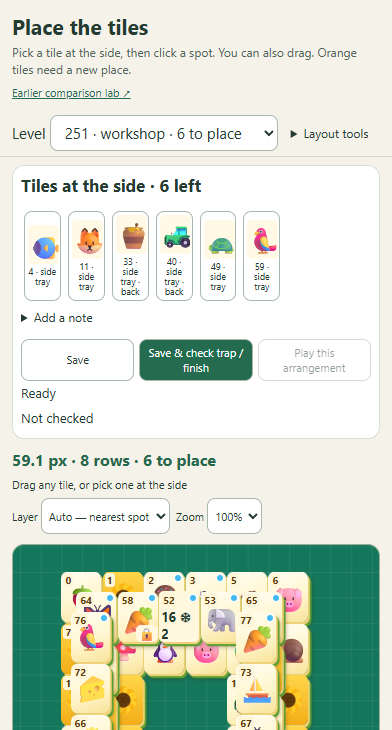
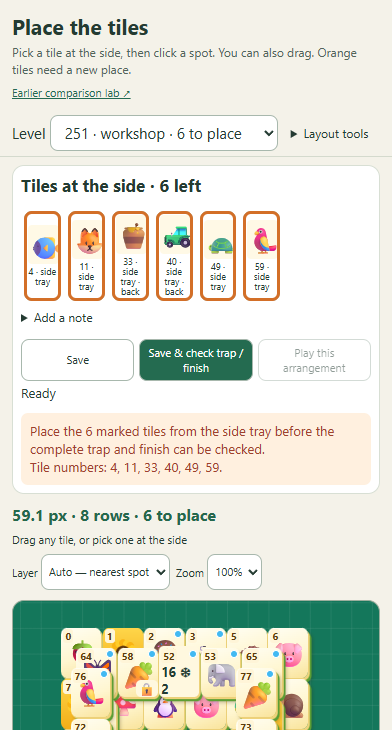
Show incomplete placement checks and preserve checking progress

Changed region(s): [[0.0306, 0.5425, 0.9796, 1.0], [0.0612, 0.2712, 0.7347, 0.4219]]

diff --git a/source/tools/builder/bank/narrow_placement_client.js b/source/tools/builder/bank/narrow_placement_client.js
@@ -3,7 +3,7 @@
   const M=window.NarrowPlacement,KEY='omamj.tile-placement.v1',clone=M.copy;
   __mj.S.level=Math.max(__mj.S.level,201);__mj.S.sunSeen=true;__mj.S.theme='sunflower';applyTheme();localStorage.setItem('omamj.v1',JSON.stringify(__mj.S));
   const [data,saved]=await Promise.all([fetch('placement-data.json').then(r=>r.json()),fetch('/api/state').then(r=>r.json())]);
-  const rows=data.levels,local=(()=>{try{return JSON.parse(localStorage.getItem(KEY)||'{}')}catch{return {}}})(),states={},checks={...saved.checks};
+  const rows=data.levels,local=(()=>{try{return JSON.parse(localStorage.getItem(KEY)||'{}')}catch{return {}}})(),states={},checks={...saved.checks},pendingChecks=new Map();
   for(const row of rows)if(row.proposal?.check?.ok&&(!checks[row.level]||!checks[row.level].checkerVersion))checks[row.level]={...row.proposal.check,checkerVersion:2,placementKey:M.key({baseHash:row.baseHash,positions:row.proposal.positions})};
   for(const row of rows){const disk=saved.levels[row.level],browser=local[row.level];states[row.level]=[disk,browser].filter(s=>s&&s.baseHash===row.baseHash).sort((a,b)=>b.updatedAt-a.updatedAt)[0]||M.initial(row);}
   let row=rows.find(r=>r.level===local.selected)||rows[0],state=states[row.level],selected=null,viewOriginal=false,pickMode=false,history=[],drag=null,geometry=null,saveTimer=null,saveChain=Promise.resolve(),change=0,zoom=1;
@@ -17,6 +17,7 @@
   style.textContent+='.pe-mini{display:grid;place-items:center}.pe-mini .fi{display:block;width:100%;height:100%}.pe-mini .emo{font:32px/1 "Noto Color Emoji","Segoe UI Emoji",sans-serif}.pe-tools,.pe-notes{display:contents}.pe-tools>summary,.pe-notes>summary{display:none}@media(max-width:760px){.pe-header h1{font-size:21px!important}.pe-header p{font-size:12px}.pe-header a{font-size:11px}.pe-tools,.pe-notes{display:block}.pe-tools>summary,.pe-notes>summary{display:list-item;cursor:pointer;font-size:12px;padding:7px}.pe-tools[open]{width:100%}.pe-tools[open]>button{margin:3px}.pe-notes>summary{padding:5px 0}.pe-note-label{display:block;margin-top:3px;font-size:12px}.pe-note-label textarea{min-height:42px;max-height:70px}.pe-toolbar #peKind{display:none}.pe-toolbar{padding-top:3px;padding-bottom:5px}.pe-work{padding-top:8px}.pe-work aside{padding:8px}.pe-mini .emo{font-size:26px}}';
   document.head.append(style);document.body.append(root);
   style.textContent+='#peSurface .pe-drag-source{opacity:.23!important}#placementRoot.pe-dragging,#placementRoot.pe-dragging *{cursor:grabbing!important}#peDragTile{cursor:grabbing;will-change:left,top}';
+  style.textContent+='#peTray .pe-needs-placement{outline:3px solid #d36f28;outline-offset:-3px}#peResult.pe-fail{background:#fff0df;border-radius:7px;padding:9px;margin-top:7px}';
   const tools=document.createElement('details');tools.className='pe-tools';tools.innerHTML='<summary>Layout tools</summary>';for(const id of ['peOriginal','peDraft','peReset','peUndo','pePick','peReturn'])tools.append(root.querySelector('#'+id));root.querySelector('.pe-toolbar').append(tools);
   const notes=document.createElement('details');notes.className='pe-notes';notes.innerHTML='<summary>Add a note</summary>';const noteLabel=root.querySelector('.pe-note-label');noteLabel.before(notes);notes.append(noteLabel);
   const phoneMode=window.matchMedia('(max-width:760px)'),setMode=()=>{tools.open=notes.open=!phoneMode.matches;};setMode();phoneMode.addEventListener('change',setMode);
@@ -34,6 +35,12 @@
   function beforeChange(){history.push(snapshot());if(history.length>100)history.shift();}
   function select(id){selected=id;pickMode=false;viewOriginal=false;render();hint('Tile '+id+' selected. Click a spot, drag it, or send it back to the side tray.');}
   function role(id){const d=activeDesign(),marks=[];if(d.clock.i===id)marks.push('⏰ '+d.clock.n);if(d.obst.keys.includes(id))marks.push('🔑');if(d.obst.locks.includes(id))marks.push('🔒');if(d.obst.ice[id])marks.push('❄ '+d.obst.ice[id]);return marks.join(' ');}
+  function renderResult(){
+    const key=M.key(state),pending=pendingChecks.get(key),result=checks[row.level],valid=result&&result.placementKey===key;
+    $('peCheck').disabled=!!pending;$('peCheck').textContent=pending?'Checking…':'Save & check trap / finish';
+    $('peResult').className=pending?'':valid?(result.ok?'pe-pass':'pe-fail'):'';
+    $('peResult').textContent=pending|| (valid?result.message+(result.errors?.length?'\n'+result.errors.join(', '):''):(result?'Changed since the last check':'Not checked'));
+  }
   function render(){
     const isProposal=row.proposal&&JSON.stringify(state.positions)===JSON.stringify(row.proposal.positions);
     $('peLevel').value=row.level;$('peKind').textContent=state.designSource==='released'?'Editing the released starting layout':isProposal?(row.proposal.status==='passed'?'Checked proposal':state.positions.some(p=>!p)?'Unfinished proposal':'Released shape · compact version open'):'Your editable draft';
@@ -44,10 +51,11 @@
     $('peDraft').textContent=row.proposal?'Use improved proposal':row.status==='remade'?'Use narrowed draft':'Show proposed placement';$('peOriginal').textContent=state.designSource==='released'?'Back to my draft':'Edit released';$('pePick').classList.toggle('on',pickMode);$('peUndo').disabled=!history.length;
     $('peTrayTitle').textContent=`Tiles at the side · ${missing} left`;
     const ids=[...new Set([...(row.proposal?.problem||row.problem),...state.positions.map((p,i)=>!p?i:null).filter(i=>i!=null),...(selected!=null?[selected]:[])])].sort((a,b)=>Number(!!state.positions[a])-Number(!!state.positions[b])||a-b);
-    tray.innerHTML=ids.map(id=>`<button class="pe-choice ${state.positions[id]?'placed':''} ${selected===id?'selected':''}" data-choice="${id}" title="Tile ${id}${role(id)?' · '+role(id):''}"><div class="pe-mini">${face(id)}</div><small>${id} · ${state.positions[id]?'placed':'side tray'}${activeDesign().down.includes(id)?' · back':''}</small></button>`).join('');
+    const incomplete=checks[row.level]?.placementKey===M.key(state)&&checks[row.level]?.status==='incomplete';
+    tray.innerHTML=ids.map(id=>`<button class="pe-choice ${state.positions[id]?'placed':incomplete?'pe-needs-placement':''} ${selected===id?'selected':''}" data-choice="${id}" title="Tile ${id}${role(id)?' · '+role(id):''}"><div class="pe-mini">${face(id)}</div><small>${id} · ${state.positions[id]?'placed':'side tray'}${activeDesign().down.includes(id)?' · back':''}</small></button>`).join('');
     if($('peNote')!==document.activeElement)$('peNote').value=state.note;
     $('pePlay').disabled=missing>0;
-    const result=checks[row.level],valid=result&&result.placementKey===M.key(state);$('peResult').className=valid?(result.ok?'pe-pass':'pe-fail'):'';$('peResult').textContent=valid?result.message+(result.errors?.length?'\n'+result.errors.join(', '):''):(result?'Changed since the last check':'Not checked');
+    renderResult();
     draw();
   }
   function draw(){
@@ -101,12 +109,12 @@
   $('peNote').oninput=()=>{state.note=$('peNote').value;state.updatedAt=Date.now();remember();clearTimeout(saveTimer);const snap=snapshot();saveTimer=setTimeout(()=>save(snap).catch(()=>{}),500);};
   $('peSave').onclick=()=>{clearTimeout(saveTimer);save().catch(()=>{});};
   $('peCheck').onclick=async()=>{
-    if(state.positions.some(p=>!p)){hint('Place all the tiles from the side tray before checking. Your unfinished arrangement can still be saved.');save().catch(()=>{});return;}
-    const snap=snapshot(),level=row.level,key=M.key(snap);$('peCheck').disabled=true;$('peResult').className='';$('peResult').textContent='Saving and queuing the check…';
+    const snap=snapshot(),level=row.level,key=M.key(snap),started=Date.now();if(pendingChecks.has(key))return;pendingChecks.set(key,'Saving and queuing the check…');renderResult();
+    const record=result=>{if(!checks[level]||checks[level].placementKey!==M.key(states[level])||key===M.key(states[level]))checks[level]=result;};
     try{await save(snap);const response=await fetch('/api/check',{method:'POST',headers:{'Content-Type':'application/json'},body:JSON.stringify(snap)}),job=await response.json();if(!response.ok)throw Error(job.error);
-      let result;while(true){const reply=await fetch('/api/check/'+job.id),info=await reply.json();if(!reply.ok)throw Error('The lab restarted. Reload to see saved check results.');if(info.status==='done'){result=info.result;break;}if(row.level===level&&M.key(state)===key)$('peResult').textContent=info.status==='queued'?'Queued for checking…':'Checking trap and complete finish…';await new Promise(r=>setTimeout(r,1000));}
-      checks[level]=result;if(row.level===level)render();
-    }catch(e){if(row.level===level)$('peResult').textContent='Could not complete the check: '+e.message;}finally{$('peCheck').disabled=false;}
+      let result;while(true){const reply=await fetch('/api/check/'+job.id),info=await reply.json();if(!reply.ok)throw Error('The lab restarted. Reload to see saved check results.');if(info.status==='done'){result=info.result;break;}pendingChecks.set(key,(info.status==='queued'?'Queued for checking…':'Checking trap and complete finish…')+' '+Math.round((Date.now()-started)/1000)+' s');if(row.level===level)renderResult();await new Promise(r=>setTimeout(r,1000));}
+      record(result);
+    }catch(e){record({status:'unknown',ok:false,placementKey:key,message:'Could not complete the check: '+e.message});}finally{pendingChecks.delete(key);if(row.level===level)render();}
   };
   const back=document.createElement('button');back.id='peBack';back.textContent='Back to placement';back.hidden=true;document.body.append(back);back.onclick=()=>{root.hidden=false;back.hidden=true;render();};
   $('pePlay').onclick=async()=>{await save().catch(()=>{});if(state.positions.some(p=>!p))return;const checked=checks[row.level],source=checked?.ok&&checked.placementKey===M.key(state)?checked.design:activeDesign(),design={...clone(source),tiles:clone(state.positions)},id=290000+row.level;

diff --git a/source/tools/builder/bank/narrow_placement_browser.js b/source/tools/builder/bank/narrow_placement_browser.js
@@ -9,7 +9,8 @@ async function run(){
     const make=size=>lib.phone({url:root,size,state:{name:'Placement QA',pid:'test-placement-qa',level:301,seenSp:{clock:true,clockMoves:true,ice:true,lock:true}},routes:[['**/__blank__',r=>r.fulfill({status:200,contentType:'text/html',body:'<!doctype html>'})]]});
     const page=await make([1280,940]);await page.waitForFunction(()=>window.NarrowEditor&&document.querySelectorAll('#peLevel option').length===40);assert.equal(await page.evaluate(()=>__mj.S.theme),'sunflower');
     for(const row of rows){await page.selectOption('#peLevel',String(row.level));await page.click('#peReset');const positions=M.initial(row).positions;assert.deepEqual(await page.evaluate(()=>NarrowEditor.snapshot.positions),positions);assert.equal(await page.locator('#peSurface [data-tile]').count(),positions.filter(Boolean).length);}
-    await page.selectOption('#peLevel','251');await page.screenshot({path:path.join(out,'desktop.png')});
+    await page.selectOption('#peLevel','251');await page.click('#peCheck');await page.waitForFunction(()=>document.querySelector('#peResult').textContent.includes('6 marked tiles'));assert.equal(await page.locator('#peTray .pe-needs-placement').count(),6);assert.equal(await page.locator('#peCheck').isEnabled(),true);await page.screenshot({path:path.join(out,'incomplete-check.png')});
+    await page.reload();await page.waitForFunction(()=>window.NarrowEditor);assert.match(await page.locator('#peResult').innerText(),/6 marked tiles/);assert.equal(await page.locator('#peCheck').isEnabled(),true);await page.screenshot({path:path.join(out,'desktop.png')});
     const row=rows.find(r=>r.level===252),id=row.problem[0];await page.selectOption('#peLevel','252');await page.click('#peReset');await page.click(`[data-choice="${id}"]`);
     const point=await page.evaluate(()=>{const b=document.querySelector('#peSurface').getBoundingClientRect(),g=NarrowEditor.geometry;return {x:b.left+g.ox+g.tw*1.5,y:b.top+g.oy+g.tw*.62};});
     await page.mouse.click(point.x,point.y);assert.deepEqual(await page.evaluate(id=>NarrowEditor.snapshot.positions[id],id),[2,0,0]);
@@ -23,7 +24,7 @@ async function run(){
     await page.mouse.move(originalTile.x+originalTile.width/2,originalTile.y+originalTile.height/2);await page.mouse.down();await page.mouse.move(releasedPoint.x,releasedPoint.y,{steps:8});await page.mouse.up();assert.deepEqual(await page.evaluate(id=>NarrowEditor.snapshot.positions[id],exposed),[14,0,0]);
     await page.click('#peOriginal');assert.deepEqual(await page.evaluate(()=>NarrowEditor.snapshot.positions),row.proposal.positions);await page.click('#peOriginal');assert.deepEqual(await page.evaluate(id=>NarrowEditor.snapshot.positions[id],exposed),[14,0,0]);
     await page.click('#peSave');await page.waitForFunction(()=>document.querySelector('#peSaved').textContent==='Saved on this PC');await page.reload();await page.waitForFunction(()=>window.NarrowEditor);assert.equal(await page.evaluate(()=>NarrowEditor.snapshot.designSource),'released');assert.deepEqual(await page.evaluate(id=>NarrowEditor.snapshot.positions[id],exposed),[14,0,0]);assert.equal(await page.inputValue('#peNote'),'QA: saved lower placement');await page.click('#peOriginal');
-    await page.click('#peCheck');await page.waitForFunction(()=>document.querySelector('#peResult').textContent.includes('Trap behaviour checks pass'),null,{timeout:150000});
+    await page.click('#peCheck');await page.click('#pePick');assert.match(await page.locator('#peResult').innerText(),/Saving|Queued|Checking/);await page.selectOption('#peLevel','251');assert.equal(await page.locator('#peCheck').isEnabled(),true);await page.selectOption('#peLevel','252');assert.match(await page.locator('#peResult').innerText(),/Saving|Queued|Checking/);await page.waitForFunction(()=>document.querySelector('#peResult').textContent.includes('Trap behaviour checks pass'),null,{timeout:150000});
     await page.screenshot({path:path.join(out,'checked.png')});
     await page.click('[data-choice="18"]');await page.click('#peReturn');assert.match(await page.locator('#peResult').innerText(),/Changed since/);await page.click('#peDraft');
     await page.click('#pePlay');await page.waitForFunction(()=>__mj.G?.o?.lab===290252);await page.waitForTimeout(1600);assert.equal(await page.evaluate(()=>__mj.S.theme),'sunflower');assert.deepEqual(await page.evaluate(()=>__mj.G.tiles.map(t=>[t.x,t.y,t.z])),row.proposal.positions);assert.equal(await page.locator('#modal').evaluate(el=>el.classList.contains('hidden')),true);await page.screenshot({path:path.join(out,'play.png')});
@@ -31,7 +32,7 @@ async function run(){
     const mobile=await make([392,730]);await mobile.waitForFunction(()=>window.NarrowEditor);assert.equal(await mobile.locator('#peLevel option').count(),40);await mobile.screenshot({path:path.join(out,'phone.png')});
     assert.equal(await mobile.evaluate(()=>document.querySelector('#placementRoot').scrollWidth<=window.innerWidth+1),true);
     if(page.errors.length||mobile.errors.length)throw Error([...page.errors,...mobile.errors].join('; '));
-    const summary={ok:true,levels:40,remade:8,unresolved:32,theme:'sunflower',allRevisedWorkspaces:true,clickPlacement:true,dragPlacement:true,undo:true,editableReleased:true,separateReleasedDraftsSurviveReload:true,notesPreserved:true,diskSaveAndReload:true,liveProofPassed:true,staleVerdictInvalidated:true,actualGameWin:true,mobileViewport:[392,730],separateQaPort:8270};fs.writeFileSync(path.join(out,'browser.json'),JSON.stringify(summary,null,2)+'\n');console.log(JSON.stringify(summary));await page.ctx.close();await mobile.ctx.close();return summary;
+    const summary={ok:true,levels:40,remade:8,unresolved:32,theme:'sunflower',allRevisedWorkspaces:true,incompleteCheckVisible:true,incompleteResultSurvivesReload:true,pendingCheckSurvivesSelection:true,canCheckOtherLevelsWhilePending:true,clickPlacement:true,dragPlacement:true,undo:true,editableReleased:true,separateReleasedDraftsSurviveReload:true,notesPreserved:true,diskSaveAndReload:true,liveProofPassed:true,staleVerdictInvalidated:true,actualGameWin:true,mobileViewport:[392,730],separateQaPort:8270};fs.writeFileSync(path.join(out,'browser.json'),JSON.stringify(summary,null,2)+'\n');console.log(JSON.stringify(summary));await page.ctx.close();await mobile.ctx.close();return summary;
   }finally{await lib.teardown();}
 }
 if(require.main===module)run().catch(e=>{console.error(e);process.exitCode=1;});module.exports={run};

diff --git a/source/tools/builder/test_narrow_placement.js b/source/tools/builder/test_narrow_placement.js
@@ -56,3 +56,10 @@ test('the local server preserves unfinished arrangements on disk and refuses a s
   try{let r=await fetch(url+'/api/save',{method:'POST',body:JSON.stringify(s)});assert.equal(r.status,200);r=await fetch(url+'/api/save',{method:'POST',body:JSON.stringify({...s,baseHash:'stale'})});assert.equal(r.status,400);}finally{await new Promise(resolve=>a.server.close(resolve));}
   const b=S.createServer({port:0,dataDir:dir});address=await b.listen();try{const restored=await fetch('http://127.0.0.1:'+address.port+'/api/state').then(r=>r.json());assert.deepEqual(restored.levels[row.level].positions,s.positions);assert.equal(restored.levels[row.level].note,s.note);assert.ok(fs.existsSync(path.join(dir,'catalogues',restored.levels[row.level].catalogueId+'.json')));}finally{await new Promise(resolve=>b.server.close(resolve));}
 });
+
+test('checking unfinished work returns an immediate durable result naming the missing tiles',async()=>{
+  const S=require('./bank/narrow_placement_server'),dir=fs.mkdtempSync(path.resolve(require('./bank/narrow_lab').TMP,'placement-incomplete-test-')),a=S.createServer({port:0,dataDir:dir}),address=await a.listen(),row=publishedRows.find(r=>r.level===251),s=M.initial(row),url='http://127.0.0.1:'+address.port;
+  s.note='Keep my unfinished outline';let key;
+  try{const response=await fetch(url+'/api/check',{method:'POST',body:JSON.stringify(s)});assert.equal(response.status,202);const job=await response.json();key=job.placementKey;const info=await fetch(url+'/api/check/'+job.id).then(r=>r.json());assert.equal(info.status,'done');assert.equal(info.result.status,'incomplete');assert.deepEqual(info.result.tiles,s.positions.flatMap((p,i)=>p?[]:[i]));assert.match(info.result.message,/6 marked tiles/);assert.equal(info.result.ok,false);}finally{await new Promise(resolve=>a.server.close(resolve));}
+  const b=S.createServer({port:0,dataDir:dir}),restoredAddress=await b.listen();try{const restored=await fetch('http://127.0.0.1:'+restoredAddress.port+'/api/state').then(r=>r.json());assert.equal(restored.levels[row.level].note,s.note);assert.deepEqual(restored.levels[row.level].positions,s.positions);assert.equal(restored.checks[row.level].placementKey,key);assert.equal(restored.checks[row.level].status,'incomplete');}finally{await new Promise(resolve=>b.server.close(resolve));}
+});

diff --git a/source/tools/builder/bank/narrow_placement_server.js b/source/tools/builder/bank/narrow_placement_server.js
@@ -24,7 +24,11 @@ function createServer({port=8269,dataDir=B.DATA,assetDir=B.OUT}={}){
         const body=JSON.parse(text),row=rows.get(body.level);if(!row)throw Error('Level is not part of this placement lab');const saved=save(row,body);
         if(url.pathname==='/api/save')return json(res,200,{saved,placementKey:M.key(saved)});
         const id=Date.now()+'-'+(++serial),prefix=path.join(dataDir,'jobs',id),job={id,level:row.level,status:'queued',input:prefix+'.input.json',output:prefix+'.result.json',log:prefix+'.log',placementKey:M.key(saved)};
-        fs.writeFileSync(job.input,JSON.stringify({row,snapshot:saved}));jobs.set(id,job);queue.push(job);json(res,202,{id,saved,placementKey:job.placementKey});next();
+        fs.writeFileSync(job.input,JSON.stringify({row,snapshot:saved}));jobs.set(id,job);
+        const incomplete=M.incomplete(saved.positions);
+        if(incomplete){job.status='done';job.result={...incomplete,checkerVersion:2,level:row.level,placementKey:job.placementKey,checkedAt:new Date().toISOString()};fs.writeFileSync(job.output,JSON.stringify(job.result,null,2)+'\n');}
+        else queue.push(job);
+        json(res,202,{id,saved,placementKey:job.placementKey});next();
       }catch(e){json(res,400,{error:e.message});}});return;
     }
     if(!['GET','HEAD'].includes(req.method))return json(res,405,{error:'Method not allowed'});

diff --git a/source/tools/builder/bank/narrow_placement_check.js b/source/tools/builder/bank/narrow_placement_check.js
@@ -2,7 +2,7 @@
 const fs=require('fs'),{Worker,isMainThread,parentPort,workerData}=require('worker_threads');
 const P=require('./narrow_proof'),E=require('../engine'),M=require('./narrow_placement_model');
 function check(row,snapshot){
-  const s=M.validate(row,snapshot),missing=s.positions.map((p,i)=>p?null:i).filter(i=>i!=null);if(missing.length)return {status:'incomplete',ok:false,message:`Place the remaining ${missing.length} tiles first.`,tiles:missing};
+  const s=M.validate(row,snapshot),incomplete=M.incomplete(s.positions);if(incomplete)return incomplete;
   const design={...M.copy(M.designFor(row,s)),tiles:s.positions};
   if(!require('./narrow_methods').valid(design.tiles)){
     const bad=new Set();for(let i=0;i<design.tiles.length;i++){if(!M.supported(design.tiles.filter((_,j)=>j!==i),design.tiles[i]))bad.add(i);for(let j=0;j<i;j++)if(design.tiles[i][2]===design.tiles[j][2]&&M.overlap(design.tiles[i],design.tiles[j])){bad.add(i);bad.add(j);}}

diff --git a/source/tools/builder/bank/narrow_placement_model.js b/source/tools/builder/bank/narrow_placement_model.js
@@ -40,5 +40,6 @@
   }
   const designFor=(row,state)=>state.designSource==='released'?row.original:row.base;
   const key=s=>JSON.stringify(s.designSource==='released'?[s.baseHash,s.positions,'released']:[s.baseHash,s.positions]);
-  return {copy,overlap,supported,propose,dropAt,footprint,initial,validate,key,designFor};
+  function incomplete(positions){const tiles=positions.map((p,i)=>p?null:i).filter(i=>i!=null);return tiles.length?{status:'incomplete',ok:false,message:`Place the ${tiles.length} marked tile${tiles.length===1?'':'s'} from the side tray before the complete trap and finish can be checked.\nTile numbers: ${tiles.join(', ')}.`,tiles}:null;}
+  return {copy,overlap,supported,propose,dropAt,footprint,initial,validate,key,designFor,incomplete};
 });

diff --git a/source/analysis/builder/footprint60/narrow/placement-lab/README.md b/source/analysis/builder/footprint60/narrow/placement-lab/README.md
@@ -34,6 +34,11 @@ replace those initial proposals; existing human saves are kept. No tile is delet
 - **Save & check trap / finish** runs the engine proofs. A changed placement
   invalidates the displayed verdict. A time/node limit is an unknown result, never
   a pass. Failed checks identify problem tiles where available.
+  If tiles remain at the side, the button now returns an immediate, saved
+  **incomplete** result in the same result panel, lists their tile numbers and
+  highlights their tray cards. It cannot certify the full puzzle until all tiles
+  are placed. Checking progress survives selecting tiles or switching levels;
+  other layouts remain available for checking while a job is running.
 - **Play this arrangement** opens the real game with the current positions and
   Sunflower tiles. Once a proof has found a new finish, that proven route travels
   with the playable board. Playing is separate from certification or adoption.
@@ -112,11 +117,29 @@ There are no production database writes, difficulty bots or released-table edits
 QA uses a separate server on **8270** and a separate ignored edit directory. Its
 arrangements, notes and checks are not Dennis's work. Tests cover all 40 side trays,
 click and drag placement, undo, disk save/reload, stale verdict invalidation, a live
-passing proof, real-game play/win, phone layout and Sunflower faces. Thirteen focused
+passing proof, real-game play/win, phone layout and Sunflower faces. Fourteen focused
 tests also cover server restart durability, immutable catalogues, malformed snapshots,
 geometry constraints and an actual lower placement that needs a newly proven tail.
 The current browser QA additionally moves a tile directly on the released board,
 switches between both drafts, reloads and verifies both positions and the note.
+The incomplete-check regression also verifies an immediate server result, saved
+positions/note and a durable incomplete verdict after restart. Browser coverage
+checks the visible result and missing-tile highlights, reload, and progress during
+selection and level changes, followed by an actual completed proof.
+
+2026-11-15 check-button fix: unfinished layouts previously only saved and showed
+an explanation below the board, without submitting a check. Every click now
+submits, and incomplete results appear beside the button with marked tray cards.
+The updated UI assets and per-job checker are live on 8269. Automatic approval
+review blocked a server restart (reported reason: "blocked by policy"), so the
+running server still sends incomplete checks through its existing worker queue;
+the new immediate server preflight takes effect on its next normal restart.
+QA ran on separate data on 8270. No real user layout was changed by the tests.
+
+Dennis continued editing during this fix. His real check
+`placements/jobs/1794752454956-2.result.json` completed: level 251's minimum clock
+route changed from 14 to 16 and special ablation effects differed. This is a
+completed failed check, distinct from the earlier silent incomplete-board skip.
 
 2026-11-15 drop correction: the original pointer handler inherited the entire
 position of whichever tile it hit, making half-offset bridge positions hard to
